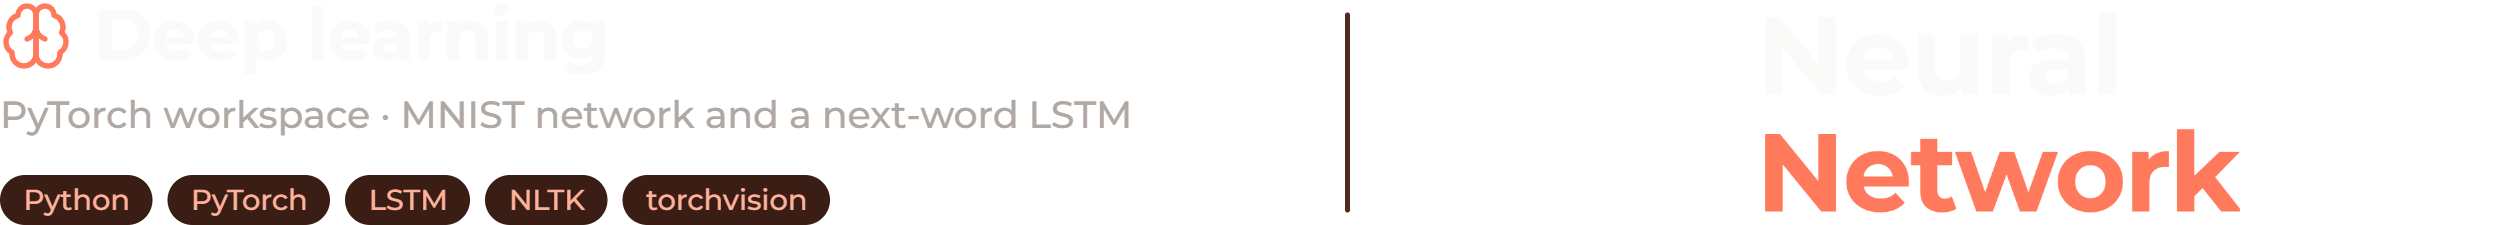
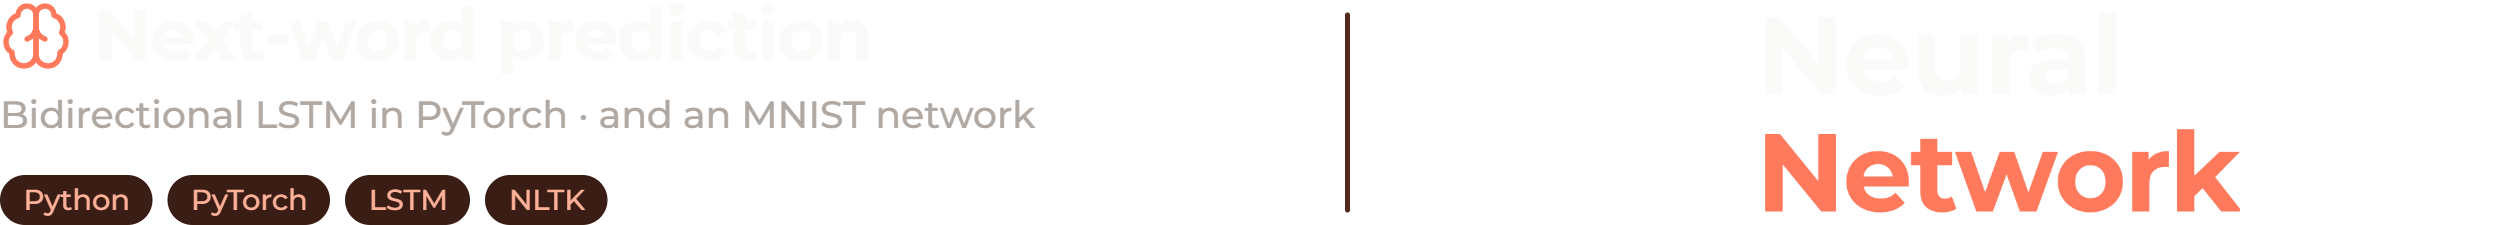
docs: lead with the next-word model and use the supplied hero

Changed region(s): [[0.0, 0.4356, 0.4652, 0.5911], [0.2481, 0.7778, 0.3412, 1.0]]

diff --git a/README.md b/README.md
@@ -6,27 +6,29 @@
 </p>
 
 <p align="center">
-  <img src="docs/images/showcase.jpg" alt="Training plots of the MNIST network and of the next-word LSTM" width="100%">
+  <img src="docs/images/showcase.jpg" alt="The idea: a sequence of words goes into a recurrent block, the next word comes out" width="100%">
 </p>
 
 ## About
 
-**neural-network** is a learning workspace for neural networks in PyTorch: from tensors and a data loader, through a
-small fully connected network on MNIST, to a recurrent network that predicts the next word of a sentence. It was
-split off from the former `Id-Verification-And-Neural-Network` repository (this one is that repository, renamed); the
-OpenCV scripts now live in `id-verification` and the small Python exercises in `tools/projects/python-exercises`.
+**neural-network** is a next-word prediction model written in PyTorch: given a sequence of 5 or 10 words, a bidirectional
+LSTM predicts the word that follows. Around it are the warm-ups that led to it: tensors, a data loader and a small
+fully connected network on MNIST. It was split off from the former `Id-Verification-And-Neural-Network` repository
+(this one is that repository, renamed); the OpenCV scripts now live in `id-verification` and the small Python
+exercises in `tools/projects/python-exercises`.
 
-- **Tensor basics (`tensorBasics.py`).** Creating tensors, addition, element-wise multiplication, transpose.
-- **Data loader (`dataLoaderMnist.py`).** MNIST with a `DataLoader`, normalisation (mean 0.1307, std 0.3081),
-  batches of 64.
+- **Next-word prediction (`pyTorch/advancedTools/`).** A two-layer bidirectional LSTM with an embedding and layer
+  normalisation (`ComplexRNN`), trained on word sequences of length 5 or 10. The text is tokenised and lemmatised
+  with NLTK (`wordPreprocessing.py`) and read from `advancedTools/base/` (Sherlock Holmes stories, a collection of
+  sentences, an emotion data set). 256-dimensional embeddings and hidden state, 40 epochs, learning rate 0.0001 by
+  default. `trainedModel.py` prints the sentence, the target word and the model's prediction.
+- **Four trained models** are in `pyTorch/path/` (one per text: stories, sentences, emotions and a
+  `next_word_prediction_data_base.txt` whose text is not in the repository), each with its training plot.
 - **MNIST network (`neuralNetwork.py`).** A 784-64-10 network (`SimpleNet`) with cross-entropy loss, SGD with
   momentum and weight decay, early stopping (`patience`), plots of loss and accuracy per epoch, and saving and
   loading of the weights.
-- **Next-word prediction (`advancedTools/`).** A two-layer bidirectional LSTM with an embedding and layer
-  normalisation (`ComplexRNN`), trained on word sequences of length 5 or 10. The text is tokenised and lemmatised
-  with NLTK (`wordPreprocessing.py`) and read from `advancedTools/base/` (Sherlock Holmes stories, a sentence
-  collection, an emotion data set). 256-dimensional embeddings and hidden state, 40 epochs, learning rate 0.0001 by
-  default.
+- **Warm-ups.** `tensorBasics.py` (tensors, addition, element-wise multiplication, transpose) and `dataLoaderMnist.py`
+  (MNIST with a `DataLoader`, normalisation with mean 0.1307 and std 0.3081, batches of 64).
 
 > **Status:** a personal learning project. No accuracy figure is claimed here. The `data/` folder (MNIST) is
 > downloaded on first run and is not in the repository; the sample prediction code uses CUDA.
@@ -45,16 +47,20 @@ Comments are a mix of English and Polish; the README, commits and branches are i
 
 ## Screenshots
 
-The scripts have no interface of their own; these are the training plots they saved in `pyTorch/path/`, drawn in window
-frames by `tools/readme-images`. The big picture at the top shows the fully connected network on MNIST after 50 epochs
-and the next-word LSTM trained on the stories; below, the same network after 200 epochs and the model trained on sentences.
+The picture at the top is an illustration of the idea (a sequence of words, a recurrent block, the next word); it is not
+output of the scripts. The scripts have no interface of their own: below are the training plots they saved in
+`pyTorch/path/`, drawn in window frames by `tools/readme-images`. First the next-word model trained on the stories and
+on the sentences, then the MNIST network after 50 and 200 epochs.
 
 <p align="center">
-  <img src="docs/images/plots.jpg" alt="The MNIST network after 200 epochs and the next-word model trained on sentences" width="100%">
+  <img src="docs/images/plots.jpg" alt="Training loss and accuracy of the next-word model on the stories and on the sentences" width="100%">
+</p>
+<p align="center">
+  <img src="docs/images/mnist.jpg" alt="Loss and accuracy of the MNIST network after 50 and after 200 epochs" width="100%">
 </p>
 
-All the saved plots are in `pyTorch/path/`: `epoch5.png`, `epoch20.png`, `epoch50.png` and `epoch200.png` (the MNIST
-network), and `training_plots_<text>_<length>.png` (the next-word model, one per text).
+All the saved plots are in `pyTorch/path/`: `training_plots_<text>_<length>.png` (the next-word model, one per text) and
+`epoch5.png`, `epoch20.png`, `epoch50.png` and `epoch200.png` (the MNIST network).
 
 ## Quick start
 

diff --git a/docs/repository.md b/docs/repository.md
@@ -19,7 +19,7 @@ GitHub: strona repozytorium → ⚙ obok „About” → pola poniżej. Opis ma 
 **Opis (Description):**
 
 ```text
-PyTorch learning workspace: tensors, an MNIST data loader and a small fully connected network, up to a bidirectional LSTM that predicts the next word, trained on text corpora preprocessed with NLTK. Training plots and saved models included.
+Next-word prediction in PyTorch: a bidirectional LSTM that predicts the word following a sequence of 5 or 10 words, trained on text corpora preprocessed with NLTK, plus the warm-ups before it (tensors, a small MNIST network). Training plots and four trained models included.
 ```
 
 **Strona (Website):** puste (skrypty, nie ma strony).
@@ -33,7 +33,7 @@ python pytorch neural-network deep-learning machine-learning mnist lstm rnn nlp 
 Z GitHub CLI (`gh`) to samo jedną komendą (stare tagi `opencv`, `ocr`, `tesseract`, `id-verification`, `svm` usuń ręcznie lub `--remove-topic`):
 
 ```bash
-gh repo edit DamTchorzewski/neural-network --description "PyTorch learning workspace: tensors, an MNIST data loader and a small fully connected network, up to a bidirectional LSTM that predicts the next word, trained on text corpora preprocessed with NLTK. Training plots and saved models included." --add-topic python,pytorch,neural-network,deep-learning,machine-learning,mnist,lstm,rnn,nlp,next-word-prediction,nltk,torchvision
+gh repo edit DamTchorzewski/neural-network --description "Next-word prediction in PyTorch: a bidirectional LSTM that predicts the word following a sequence of 5 or 10 words, trained on text corpora preprocessed with NLTK, plus the warm-ups before it (tensors, a small MNIST network). Training plots and four trained models included." --add-topic python,pytorch,neural-network,deep-learning,machine-learning,mnist,lstm,rnn,nlp,next-word-prediction,nltk,torchvision
 ```
 
 ## Wielkość repozytorium
